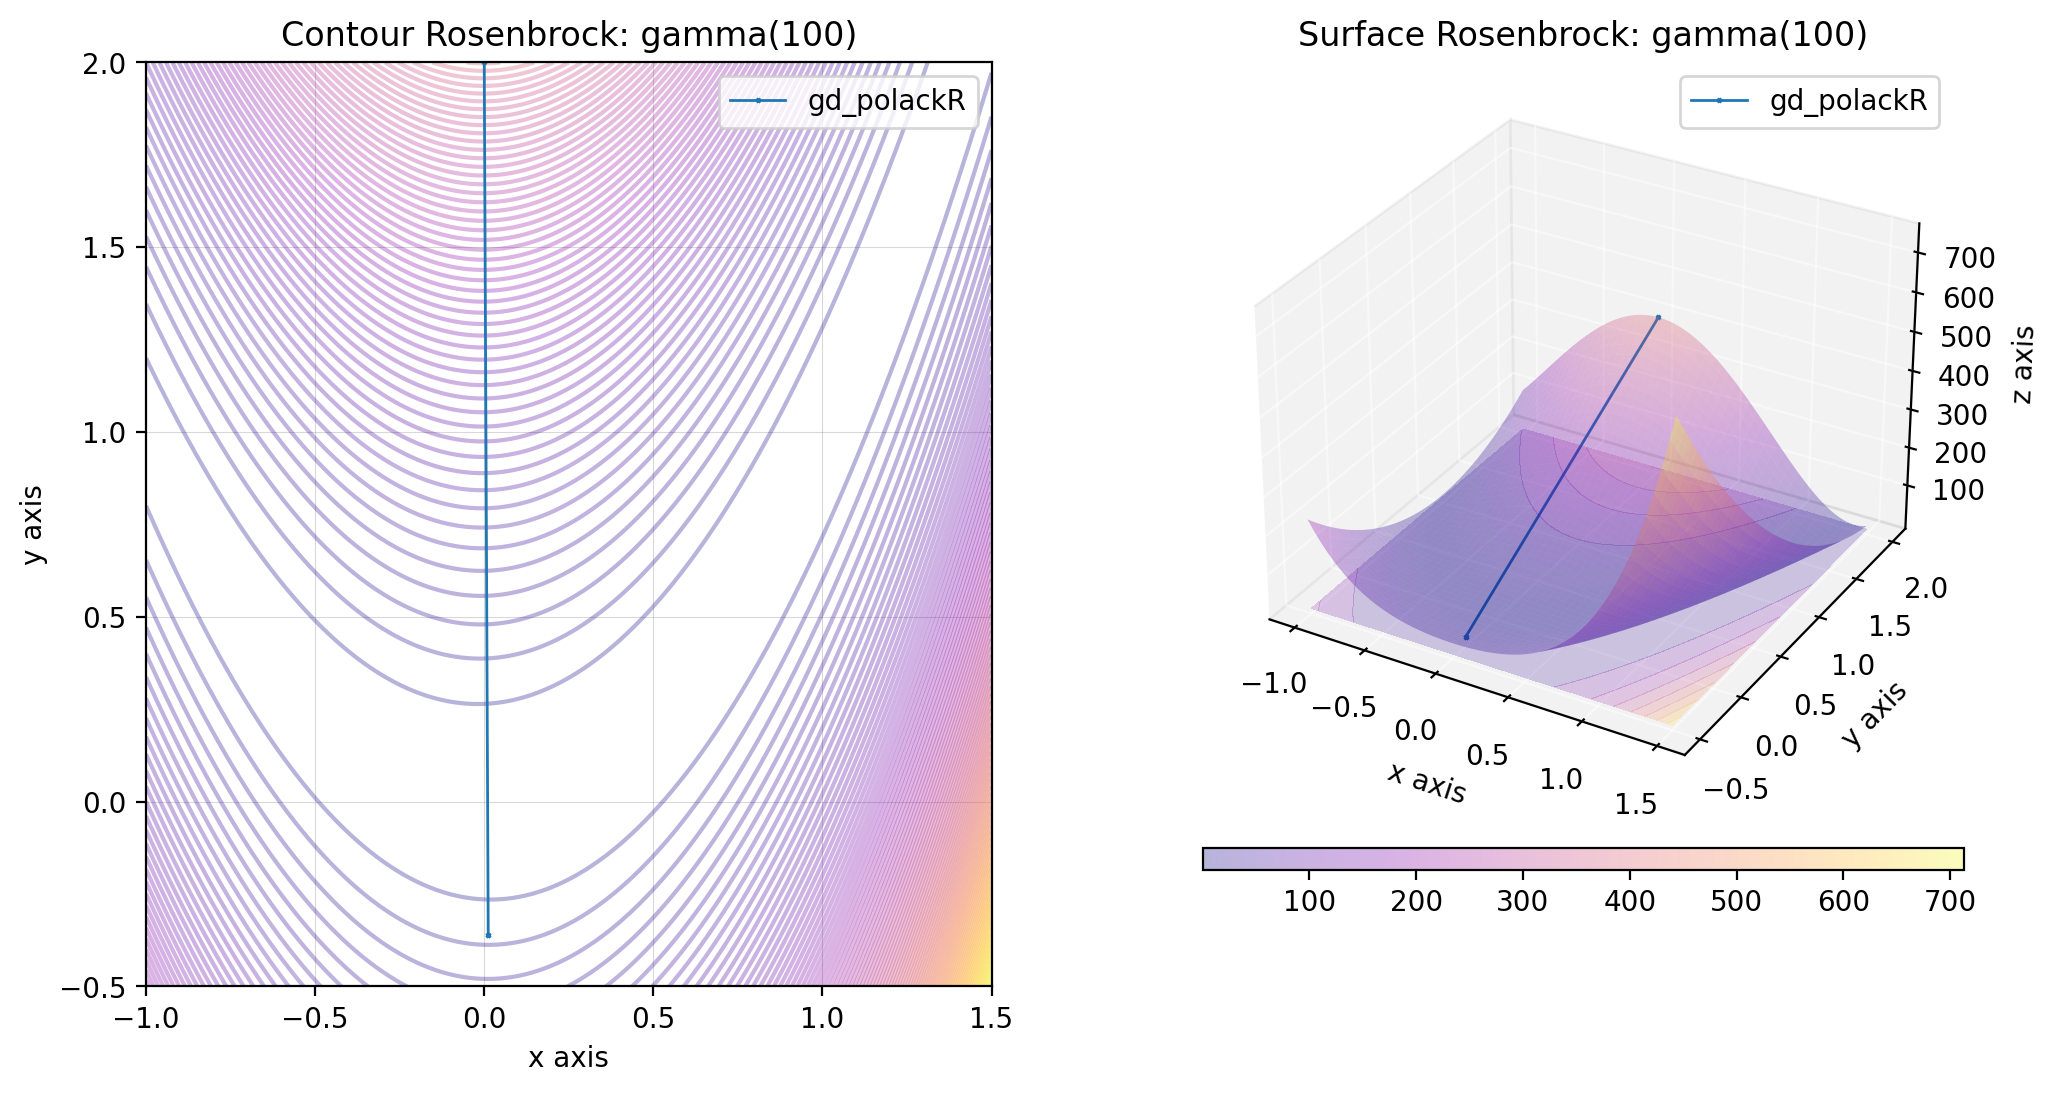
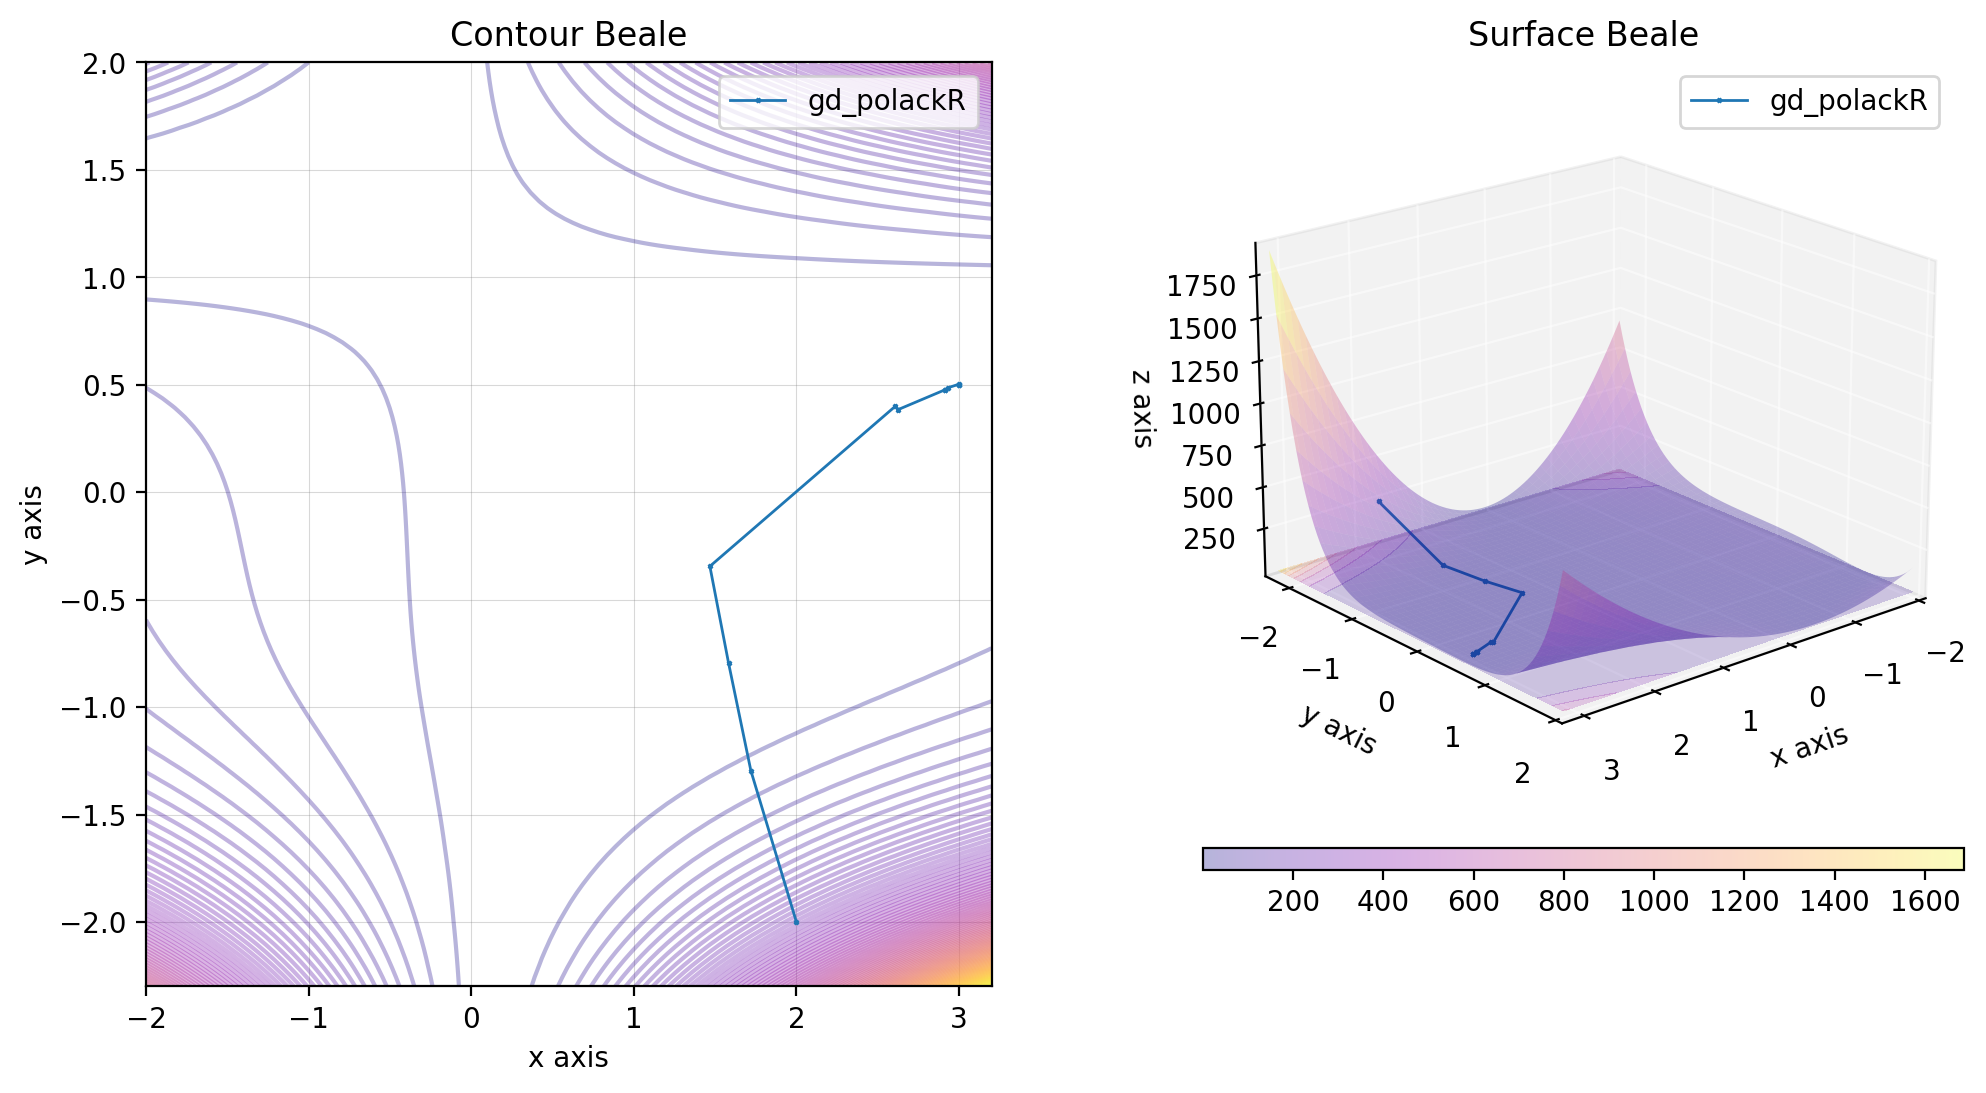
(update) readme gradient descent fr et pr

diff --git a/README.md b/README.md
@@ -224,32 +224,32 @@ The algorithm is the same as the one with an optimal step, except for the descen
 As long as the norm $|| {\bf p}_{k+1} - {\bf p}_k|| > \varepsilon$ with $\varepsilon$ a small value:
 
 1. Choose a descent direction ${\bf d}_k$ using the Fletcher-Reeves method.
-2. Compute the step size $\mu$ using the Armijo rule.
-3. Move in this direction: ${\bf p}_{k+1} = {\bf p}_k + \mu \, {\bf d}_k$.
+2. Compute the learning rate $\eta$ using the Armijo rule.
+3. Move in this direction: ${\bf p}_{k+1} = {\bf p}_k + \eta {\bf d}_k$.
 
 
 #### Usage
 
 ```python
 import numpy as np
-from descent.figure3d import Rosenbrock
+from descent.figure3d import Beale
 from descent.gradient import GradientDescentFletcherReeves
 
-x, y = np.linspace(-1, 1.5, 200), np.linspace(-0.5, 2, 200)
-x = np.stack((x, y), axis=-1)
-rosenbrock = Rosenbrock(100)
+beale = Beale()
+x0 = np.array([2, -2])
 
-x0 = np.array([0, 2])
-mu = 0.00001
+x = np.linspace(-2, 3.2, 100)
+y = np.linspace(-2.3, 2, 100)
+X = np.stack((x, y), axis=-1)
 
 gd_fletcherR = GradientDescentFletcherReeves()
-res_gd_fr = gd_fletcherR(rosenbrock, x0)
+res_gd_fr = gd_fletcherR(beale, x0)
 
-descents = {
+descent = {
     "gd_fletcherR": res_gd_fr,
 }
 
-rosenbrock.figure(x, descent=descents, plot_contour=True)
+beale.figure(X, descent=descent, plot_contour=True, view=(20, 50))
 ```
 
 ![GradientDescentFletcherReeves](./images/gd_fr.png)
@@ -272,31 +272,31 @@ The algorithm is the same as the one with an optimal step, except for the descen
 As long as the norm $|| {\bf p}_{k+1} - {\bf p}_k|| > \varepsilon$ with $\varepsilon$ a small value:
 
 1. Choose a descent direction ${\bf d}_k$ using the Polack-Ribière method.
-2. Compute the step size $\mu$ using the Armijo rule.
-3. Move in this direction: ${\bf p}_{k+1} = {\bf p}_k + \mu \, {\bf d}_k$.
+2. Compute the learning $\eta$ using the Armijo rule.
+3. Move in this direction: ${\bf p}_{k+1} = {\bf p}_k + \eta {\bf d}_k$.
 
 #### Usage
 
 ```python
 import numpy as np
+from descent.figure3d import Beale
 from descent.gradient import GradientDescentPolackRibiere
-from descent.figure3d import Rosenbrock
 
-x, y = np.linspace(-1, 1.5, 200), np.linspace(-0.5, 2, 200)
-x = np.stack((x, y), axis=-1)
-rosenbrock = Rosenbrock(100)
+beale = Beale()
+x0 = np.array([2, -2])
 
-x0 = np.array([0, 2])
-mu = 0.00001
+x = np.linspace(-2, 3.2, 100)
+y = np.linspace(-2.3, 2, 100)
+X = np.stack((x, y), axis=-1)
 
 gd_polackR = GradientDescentPolackRibiere()
-res_gd_pr = gd_polackR(rosenbrock, x0)
+res_gd_pr = gd_polackR(beale, x0)
 
-descents = {
+descent = {
     "gd_polackR": res_gd_pr,
 }
 
-rosenbrock.figure(x, descent=descents, plot_contour=True)
+beale.figure(X, descent=descent, plot_contour=True, view=(20, 50))
 ```
 
 ![GradientDescentPolackRibiere](./images/gd_pr.png)
